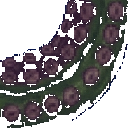
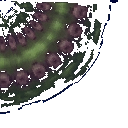
add tail asset images & fix body images

diff --git a/main.go b/main.go
@@ -110,6 +110,9 @@ var (
 	curveBottomLeft  *ebiten.Image
 	curveBottomRight *ebiten.Image
 
+	// 尻尾のスプライト（方向別に4枚。尻尾が伸びていく方向で選択）
+	tailSprites map[int]*ebiten.Image
+
 	// 食べ物のスプライト（3種類からランダムに選ばれる）
 	foodSprites [3]*ebiten.Image
 
@@ -155,6 +158,14 @@ func init() {
 		dirDown:  loadImage("head_down"),
 		dirLeft:  loadImage("head_left"),
 		dirRight: loadImage("head_right"),
+	}
+
+	// 尻尾（方向別に4枚）
+	tailSprites = map[int]*ebiten.Image{
+		dirUp:    loadImage("tail_up"),
+		dirDown:  loadImage("tail_down"),
+		dirLeft:  loadImage("tail_left"),
+		dirRight: loadImage("tail_right"),
 	}
 
 	// 体の直線セグメント
@@ -456,13 +467,21 @@ func (g *Game) Draw(screen *ebiten.Image) {
 				drawSprite(screen, curve, px, py)
 			}
 		} else {
-			// 尻尾（最後のセグメント）: 一つ前のセグメントとの位置関係で直線を選択
+			// 尻尾（最後のセグメント）: 尻尾の先端が伸びる方向でスプライトを選択
+			// 前のセグメントと反対方向が尻尾の向き
 			prev := g.snake[i-1]
-			if prev.X == p.X {
-				drawSprite(screen, bodyVertical, px, py)
-			} else {
-				drawSprite(screen, bodyHorizontal, px, py)
+			var tailDir int
+			switch {
+			case prev.Y < p.Y:
+				tailDir = dirDown // 前が上にある → 尻尾は下向き
+			case prev.Y > p.Y:
+				tailDir = dirUp
+			case prev.X < p.X:
+				tailDir = dirRight
+			default:
+				tailDir = dirLeft
 			}
+			drawSprite(screen, tailSprites[tailDir], px, py)
 		}
 	}
 

diff --git a/docs/claude_code_session_log_2026-03-28.md b/docs/claude_code_session_log_2026-03-28.md
@@ -1,0 +1,252 @@
+# Claude Code セッションログ 2026-03-28
+
+## セッション概要
+
+Claude Code (Opus 4.6) を使用して、Ebitengine によるスネークゲームをゼロから構築した全やりとりの記録。
+
+---
+
+## 1. Skills 検索
+
+**ユーザー**: ebitengine の実装用の Skills はある？
+
+**Claude**: `npx skills find` で「ebitengine」「go game engine」「game development」を検索。Ebitengine 専用のスキルは見つからなかった。Godot や汎用ゲーム開発スキルのみ存在。スキルなしでも直接支援可能と回答。
+
+---
+
+## 2. 実装プラン策定（Plan Mode）
+
+**ユーザー**: このリポジトリは golang のゲームエンジン、ebitengine を使用した snakegame を実装するためのリポジトリです。0>1 で実装するための plan を立てて。シンプルな最小限の実装でいいです。
+
+**Claude の対応**:
+1. **Phase 1 (Explore)**: リポジトリが完全に空であることを確認（`.git` のみ）
+2. **Phase 2 (Plan)**: Plan エージェントを起動し、以下を設計:
+   - 2ファイル構成（`go.mod` + `main.go`）
+   - `ebiten.Game` インターフェース実装
+   - 定数: screenWidth=640, screenHeight=480, gridSize=20, moveInterval=8
+   - Game 構造体: snake, direction, nextDir（180度反転防止バッファ）, food, score, gameOver, tickCount
+   - コア機能: 蛇の移動、矢印キー操作、食べ物生成、衝突判定、ゲームオーバー＆リスタート
+3. **Phase 4**: プランファイルに最終プラン書き出し
+
+**ユーザー（Plan 修正依頼）**: 実装に際し、docs メモを作成し、Ebitengine 初心者向けのマークダウンファイル、実装マイルストーンファイルを作成して。
+
+**Claude**: プランに Step 0 を追加:
+- `docs/ebitengine-guide.md` — Ebitengine 初心者ガイド
+- `docs/milestones.md` — M0〜M6 の実装マイルストーン
+
+→ ExitPlanMode でプラン承認。
+
+---
+
+## 3. 実装実行
+
+**Claude の対応**:
+1. `docs/` ディレクトリ作成
+2. `docs/ebitengine-guide.md` 作成（Game インターフェース、座標系、描画API、入力処理、サンプルコード）
+3. `docs/milestones.md` 作成（M0〜M6 チェックリスト）
+4. `go mod init snakegame_with_ebitengine` 実行
+5. `main.go` 作成（約160行、全ゲームロジック含む）
+6. `go mod tidy` で Ebitengine v2.9.9 + 依存をダウンロード
+7. `go build` 成功確認（macOS Metal 非推奨 API の warning のみ）
+8. マイルストーンを全チェック済みに更新
+
+---
+
+## 4. README.md 作成
+
+**ユーザー**: README.md も作成
+
+**Claude**: 遊び方、必要環境、セットアップ手順、ゲーム仕様テーブル、プロジェクト構成、技術スタックを含む README.md を作成。
+
+---
+
+## 5. 日本語コメント追加
+
+**ユーザー**: main.go に日本語で具体的にコメントを付与 初心者向けに冗長でいいので
+
+**Claude**: main.go を全面的に書き換え:
+- ファイル冒頭にゲームの流れ（5ステップ）を記載
+- セクション区切り線（`──────`）で構造化
+- 各定数・型・関数に詳細な日本語コメント
+- 処理ブロックを `--- セクション名 ---` で区切り
+- ロジック変更なし
+
+---
+
+## 6. スプライト画像の統合（第1回）
+
+**ユーザー**: Gemini Nanobanana2 でゲーム用画像セットを作成した。（スプライトシート画像を添付）必要な画像を抽出して素材にし、ゲームに使用してください。
+
+**Claude の対応**:
+1. Pillow + scipy で画像解析
+   - 画像サイズ: 2816x1536px、全ピクセル alpha=255（チェッカーパターンは実際のグレーピクセル）
+   - 色の彩度でスプライト領域を検出（saturation > 25）
+2. 背景除去（グレー・白テキスト・グリッド線を透明化）
+3. 行ごとのスプライト位置特定:
+   - Row 1 (y=141-518): 頭部4フレーム
+   - Row 2 (y=658-985): 体セグメント6枚
+   - Row 3 (y=1147-1475): 食べ物3種
+4. 各スプライトを切り出し → トリミング → 20x20 にリサイズ → `assets/` に保存
+5. body_horizontal の白アーティファクト修正（白テキスト除去フィルタ追加）
+6. main.go をスプライト対応に全面改修:
+   - `embed` パッケージで PNG 埋め込み
+   - `init()` で全スプライト読み込み
+   - `DrawRect` → `DrawImage` + スケーリング
+   - 頭部アニメーション（4フレーム循環）+ 方向回転
+   - 体セグメント自動判定（直線/カーブ）
+   - 食べ物3種ランダム
+
+---
+
+## 7. コメントのみコミット
+
+**ユーザー**: 先程の日本語コメント追加分の部分のみコミットしてほしい コミットしわすれたので 画像追加の差分はコミットしないで
+
+**Claude の対応**:
+1. 現在のスプライト版 main.go を `/tmp` にバックアップ
+2. `git show HEAD:main.go` で元のコードを確認
+3. 日本語コメント付き（スプライト変更なし）バージョンを main.go に書き出し
+4. `git diff` でコメントのみの差分であることを確認
+5. `git add main.go && git commit` でコミット（`5b63875`）
+6. スプライト版 main.go を復元
+
+---
+
+## 8. スプライト画像の再作成（ユーザー主導）
+
+**ユーザー**: assets の画像が小さいのと名前と向きがあっていないものがあったのでこちらで用意した。作業ログは docs/sprite_extraction_log.md。assets のファイル名を参考にして画像を再度配置して。背景画像も background.png で用意している。
+
+**Claude の対応**:
+1. 新しいアセット確認:
+   - 128x128px スプライト（head_up/down/left/right, body_*, food_*, カーブ4種）
+   - background.png (640x480)
+2. main.go を新ファイル名に対応:
+   - 頭部: 回転ロジック削除、方向別マップ（`headSprites map[int]*ebiten.Image`）
+   - カーブ: `body_segment_curved_top_left` 等の個別変数
+   - 食べ物: `food_elder_sign`（アンダースコア追加）
+   - 背景: `screen.DrawImage(backgroundImg, nil)`
+   - スケーリング: `spriteScale = gridSize / spriteSize` (20/128)
+   - `math` import 削除
+   - ゲームオーバー: 半透明黒オーバーレイ追加
+
+---
+
+## 9. グリッドサイズ拡大
+
+**ユーザー**: 全体的にスプライトが小さすぎる もっと大きくして良い
+
+**Claude**: `gridSize` を 20 → 32 に変更。グリッド 32x24 → 20x15。コメントも更新。
+
+---
+
+## 10. 背景減光 & 速度調整
+
+**ユーザー**: 背景画像が明るすぎてスプライトが見づらい また、ゲームスピードはもっと遅くして
+
+**Claude**:
+- `moveInterval`: 8 → 15（約4回/秒）
+- 背景描画に `ColorScale.Scale(0.3, 0.3, 0.3, 1)` 追加（明るさ30%）
+
+---
+
+## 11. 一時停止機能
+
+**ユーザー**: スペースキー押下で一時停止できるようにして
+
+**Claude**:
+- `inpututil` パッケージ追加
+- `Game` 構造体に `paused bool` フィールド追加
+- `Update()`: `inpututil.IsKeyJustPressed(KeySpace)` でトグル、ポーズ中は処理スキップ
+- `Draw()`: ポーズ中に半透明オーバーレイ + "PAUSED" メッセージ
+- ゲームオーバーリスタートを Enter のみに変更（Space との衝突回避）
+
+---
+
+## 12. 作業ログ & マイルストーン更新（第1回）
+
+**ユーザー**: 一旦ここまでやったことを docs に年月日の作業ログファイルを作成してほしい。milestones.md も適宜修正してほしい
+
+**Claude**:
+- `docs/worklog_2026-03-28.md` 新規作成（7ステップの作業内容、コミット履歴、ファイル構成）
+- `docs/milestones.md` 更新（M6〜M8 新設、M9 に作業ログ追加、「今後の拡張案」追加）
+
+---
+
+## 13. .gitignore 作成
+
+**ユーザー**: .gitignore を作成してほしい
+
+**Claude**: ビルドバイナリ（`snakegame_with_ebitengine`）と `.DS_Store` を除外する .gitignore を作成。
+
+---
+
+## 14. BGM 追加
+
+**ユーザー**: BGM を /Users/mkt/Downloads/Wet_Tentacles_on_Stone.mp3 に用意したのでコピーして使用してほしい。音量は３０％にして
+
+**Claude の対応**:
+1. `assets/bgm.mp3` にコピー
+2. embed ディレクティブに `assets/*.mp3` 追加
+3. `audio` / `audio/mp3` パッケージ追加
+4. `initBGM()` 関数作成:
+   - `mp3.DecodeWithoutResampling` でデコード
+   - `audio.NewInfiniteLoop` で無限ループ
+   - `audioCtx.NewPlayer` でプレイヤー作成
+   - `SetVolume(0.3)` で音量30%
+5. `go mod tidy` で `oto/v3`, `go-mp3` をダウンロード
+6. `initBGM()` の閉じ括弧欠落を修正（構文エラー対応）
+
+---
+
+## 15. SE（効果音）追加
+
+**ユーザー**: フリー素材の SE を必要なものを fetch して使用してほしい。このサイトから fetch して https://pixabay.com/sound-effects/search/game/
+
+**Claude の対応**:
+1. Pixabay サイトへの直接アクセスが Cloudflare でブロック（403 / JS チャレンジ）
+2. WebSearch で候補を特定:
+   - 食べ物: "game-eat-sound-83240"
+   - ゲームオーバー: "videogame-death-sound-43894"
+3. `yt-dlp`（Python モジュール）で Cloudflare を回避してダウンロード:
+   - `se_eat.mp3` (34KB) — 食べ物取得音
+   - `se_gameover.mp3` (100KB) — ゲームオーバー音
+4. main.go に SE 機能を実装:
+   - `decodeSE()`: 起動時に MP3 → PCM デコードしてメモリ保持
+   - `playSE()`: デコード済みデータから毎回新しいプレイヤーを作成して再生（重複再生対応）
+   - 食べ物取得時: `playSE(seEatData)`
+   - ゲームオーバー時: `playSE(seGameOverData)`（壁衝突・自身衝突の両方）
+   - SE 音量50%
+
+---
+
+## 16. 作業ログ & マイルストーン更新（第2回）
+
+**ユーザー**: 作業ログ、マイルストーンは適宜更新すること まだ更新していない部分も含め
+
+**Claude**:
+- `docs/worklog_2026-03-28.md` に .gitignore、BGM、SE の作業内容を追記
+- `docs/milestones.md` に M9(BGM)、M10(SE) を新設、「今後の拡張案」から効果音・BGM を削除
+
+---
+
+## 17. セッションログ作成
+
+**ユーザー**: ここまでの ClaudeCode のやりとりもすべてログに残してほしい 既存実装ログとは別に docs にマークダウン追加
+
+**Claude**: 本ファイル（`docs/claude_code_session_log_2026-03-28.md`）を作成。
+
+---
+
+## 使用ツール・技術まとめ
+
+| カテゴリ | ツール / 技術 |
+|---------|-------------|
+| 言語 | Go |
+| ゲームエンジン | Ebitengine v2.9.9 |
+| 画像生成 | Gemini Nanobanana2 |
+| 画像処理 | Python (Pillow, scipy, NumPy, OpenCV) |
+| 音声取得 | yt-dlp (Pixabay Cloudflare 回避) |
+| SE ソース | Pixabay (ロイヤリティフリー) |
+| AI アシスタント | Claude Code (Opus 4.6, 1M context) |
+| スキル検索 | npx skills find |
+| バージョン管理 | Git |

diff --git a/docs/sprite_extraction_log.md b/docs/sprite_extraction_log.md
@@ -94,6 +94,41 @@ Tech Specs: Uniform grid layout, clean pixel edges, transparent background, SNES
 |---------|-------|------|
 | `body_vertical_rot90.png` | `body_vertical.png` | 時計回り90度回転 |
 
+### カーブ胴体セグメント（水平ボディからワープ生成）
+- `body_horizontal.png` を極座標変換で90度の円弧に沿ってワープし、基本カーブを生成
+- 左右反転・上下反転で4方向を作成
+
+| ファイル | サイズ | 説明 |
+|---------|-------|------|
+| `body_segment_curved_top_left.png` | 128x128 | 左上コーナー（右→下） |
+| `body_segment_curved_top_right.png` | 128x128 | 右上コーナー（左→下） |
+| `body_segment_curved_bottom_left.png` | 128x128 | 左下コーナー（右→上） |
+| `body_segment_curved_bottom_right.png` | 128x128 | 右下コーナー（左→上） |
+
+### 尻尾（水平ボディからテーパー生成）
+- `body_horizontal.png` を元に、先端に向かって細くなるテーパー処理を適用
+- x=35%地点から先端にかけて、垂直方向の表示幅を85%削減（中心に向かって収束）
+- x=70%以降はアルファ値もフェードアウト
+- 回転・反転で4方向を作成
+
+| ファイル | サイズ | 説明 |
+|---------|-------|------|
+| `tail_right.png` | 128x128 | 右向き尻尾（先端が右） |
+| `tail_left.png` | 128x128 | 左向き尻尾（先端が左） |
+| `tail_up.png` | 128x128 | 上向き尻尾（先端が上） |
+| `tail_down.png` | 128x128 | 下向き尻尾（先端が下） |
+
+## 背景画像
+
+- 元ファイル: `/Users/mkt/Downloads/Gemini_Generated_Image_3trnqe3trnqe3trn.png`
+- 元サイズ: 2754x1536px (RGBA)
+- アスペクト比を維持したまま高さ480px基準でリサイズ（→ 860x480）
+- 左右を中央クロップして 640x480 に整形（ゲームウィンドウサイズ `screenWidth=640, screenHeight=480` に合致）
+
+| ファイル | サイズ | 説明 |
+|---------|-------|------|
+| `background.png` | 640x480 | ゲーム背景（海底神殿、エルダーサイン中央配置） |
+
 ## 使用ツール・ライブラリ
 - Python 3
 - OpenCV (`cv2`) 4.11.0 — 輪郭検出・モルフォロジー演算
